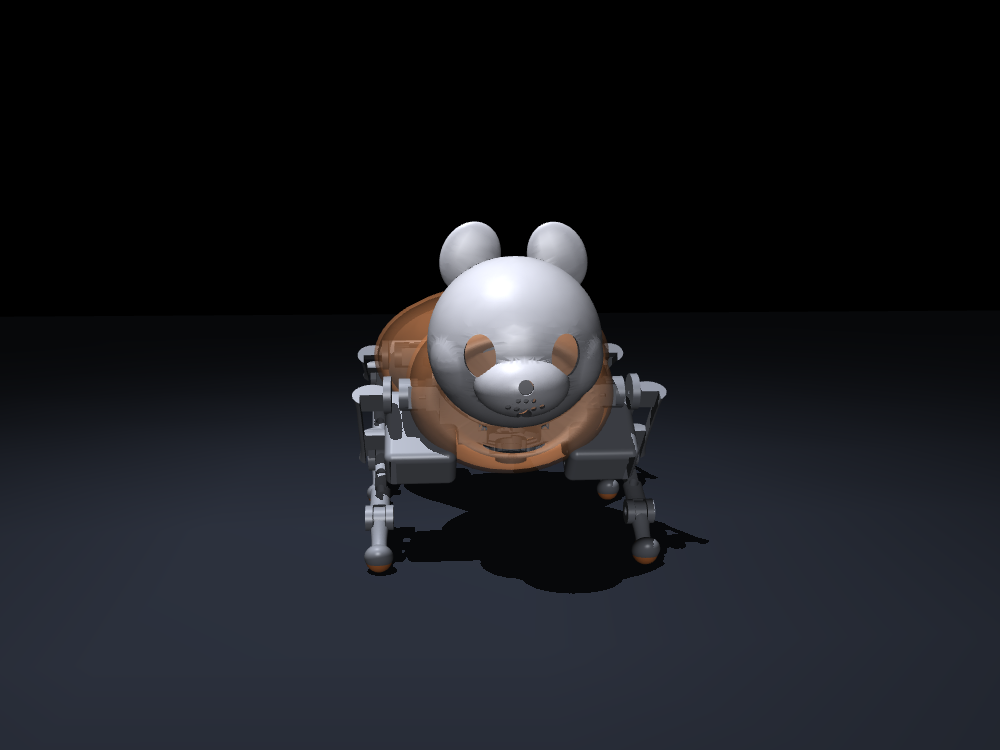
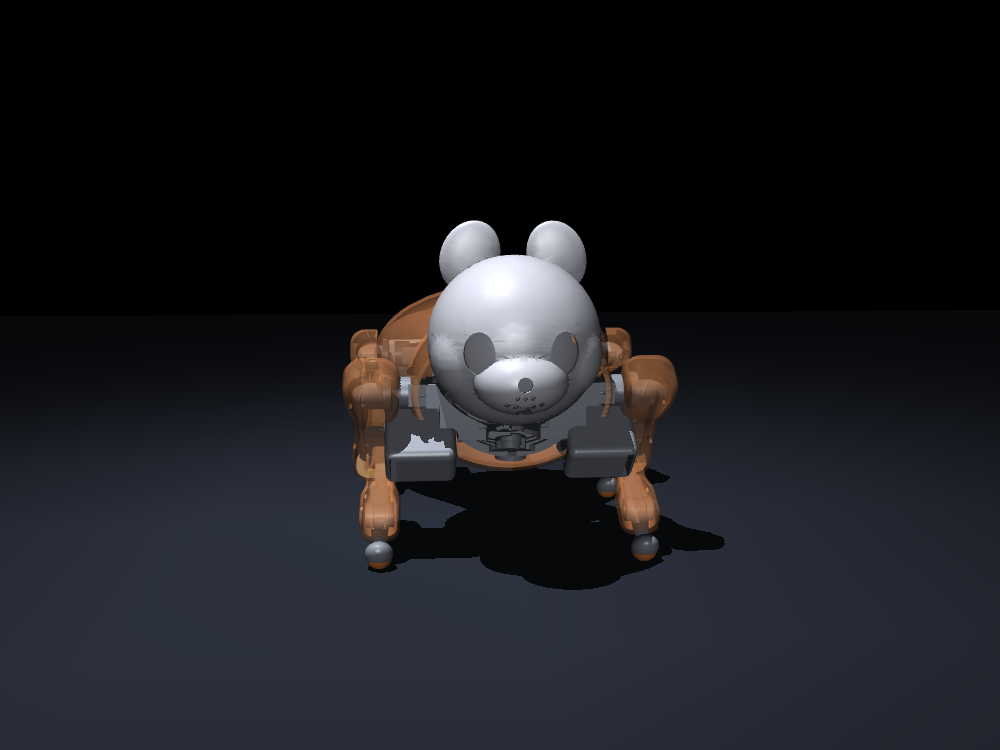
docs: regenerate the README's images, and make them regenerable
They were captured by hand and copied in, which is exactly why they went stale:
the skin, the limb covers and 200 g of mass all moved while the README kept
showing a robot from before any of it. ``python -m sim.render_docs`` writes the
whole set now -- hero, front, side, the loaf and sit stills, and the front-facing
walk gif -- the same way analysis.platform_report regenerates everything else.

Two things had to be got right, and both looked like the model was broken:

  * One Rig and one Renderer for every still. A Renderer is bound to its model, so
    a fresh Rig per pose meant a fresh Renderer, and the third one ran out of GL
    contexts and wrote a BLACK frame without failing.
  * Poses are driven by the gesture controller, at 0.55 of the gesture, not by
    snapping the rig to the held target and not by running to the end. Snapping
    put the sit on its face -- rump 27 mm below the floor, torso at 114 deg -- and
    every gesture is shaped by _pulse(u, 0.3, 0.8), which RELEASES after 0.8, so
    running to the end photographs the robot on its way back to stance.

Checked against g_sit's own docstring at the current 1524 g: shoulders 109.4 mm,
rump 73.8, torso 3.7 deg. The pose still holds; the added mass did not break it.
Full suite 105 passed.

diff --git a/sim/render_docs.py b/sim/render_docs.py
@@ -1,0 +1,85 @@
+"""The README's image set, rendered from the model rather than made by hand.
+
+    python -m sim.render_docs
+
+Writes ``docs/img/{hero,front,side,loaf,sit}.png`` and ``docs/img/walk.gif``.
+
+These used to be captured ad hoc and copied in, which is exactly why they went stale:
+the skin, the limb covers and the mass all moved while the README kept showing a robot
+from before any of it. Everything else in the project regenerates (``analysis.platform_report``),
+so the pictures do too.
+"""
+
+from __future__ import annotations
+
+import os
+import shutil
+
+import mujoco
+from PIL import Image
+
+from sim import cute_motion as CM
+from sim.mj_emulate import Rig, render_front
+from sim.render_assembly import _cam
+
+IMG = os.path.join(os.path.dirname(os.path.dirname(__file__)), "docs", "img")
+
+# the stills the README leads with; azimuth has the nose at 175 deg
+STANCE_VIEWS = (("hero", (138, -14)), ("front", (175, -8)), ("side", (95, -8)))
+POSES = ("loaf", "sit")     # gestures held for the gallery
+SETTLE = 300                # steps to let the stance settle on the floor
+POSE_AT = 0.55              # fraction of the gesture to stop at -- see below
+
+
+def _shot(rig, renderer, az, el, path):
+    renderer.update_scene(rig.data, camera=_cam(rig, az, el))
+    Image.fromarray(renderer.render()).save(path)
+    print("wrote", path)
+
+
+def main() -> None:
+    os.makedirs(IMG, exist_ok=True)
+    # ONE rig and ONE renderer for every still. Building a fresh Rig (and therefore a
+    # fresh Renderer, since a Renderer is bound to its model) per pose ran out of GL
+    # contexts on the third one and wrote a black frame -- silently, since the render
+    # itself does not fail. ``_reset_stance`` puts the same rig back to the start.
+    rig = Rig()
+    renderer = mujoco.Renderer(rig.model, 750, 1000)
+
+    for _ in range(SETTLE):
+        mujoco.mj_step(rig.model, rig.data)
+    for label, (az, el) in STANCE_VIEWS:
+        _shot(rig, renderer, az, el, os.path.join(IMG, f"{label}.png"))
+
+    # Poses are driven by the gesture CONTROLLER over the gesture's own duration, not by
+    # snapping the rig to the held target. Snapping is not a motion the robot can make:
+    # the sit went over on its face, rump 27 mm BELOW the floor and the torso at 114 deg,
+    # and it looked like the added mass had broken the pose. Ramped properly it settles
+    # where its docstring says it does -- shoulders 108 mm, rump 75, torso 4 deg.
+    for name in POSES:
+        rig._reset_stance()
+        ctl = CM.make_cute_control([name], hold=True)
+        dur = CM.GESTURES[name][1]
+        # Stop PART WAY through, not at the end. Every gesture is shaped by _pulse(u,
+        # 0.3, 0.8), which ramps in, HOLDS through the middle, and releases again -- so
+        # at u = 1.0 the pose is let go and the gallery was photographing the robot on
+        # its way back to stance. 0.55 is inside the held plateau.
+        for i in range(int(dur * POSE_AT / rig.model.opt.timestep)):
+            if i % 5 == 0:                      # the controller's own 10 ms tick
+                ctl(rig, i * rig.model.opt.timestep)
+            mujoco.mj_step(rig.model, rig.data)
+        _shot(rig, renderer, 120, -10, os.path.join(IMG, f"{name}.png"))
+
+    # walk, front-facing and CoM-tracked, which is what the caption claims.
+    # mj_emulate already owns that shot (it has the camera and writes the gif);
+    # ``simulate`` on its own returns telemetry, not a path.
+    gif, _plot = render_front("walk", seconds=6.0)
+    if os.path.exists(gif):
+        shutil.copyfile(gif, os.path.join(IMG, "walk.gif"))
+        print("wrote", os.path.join(IMG, "walk.gif"))
+    else:
+        print("NOTE: no 3-D frames captured; walk.gif left as it was")
+
+
+if __name__ == "__main__":
+    main()
